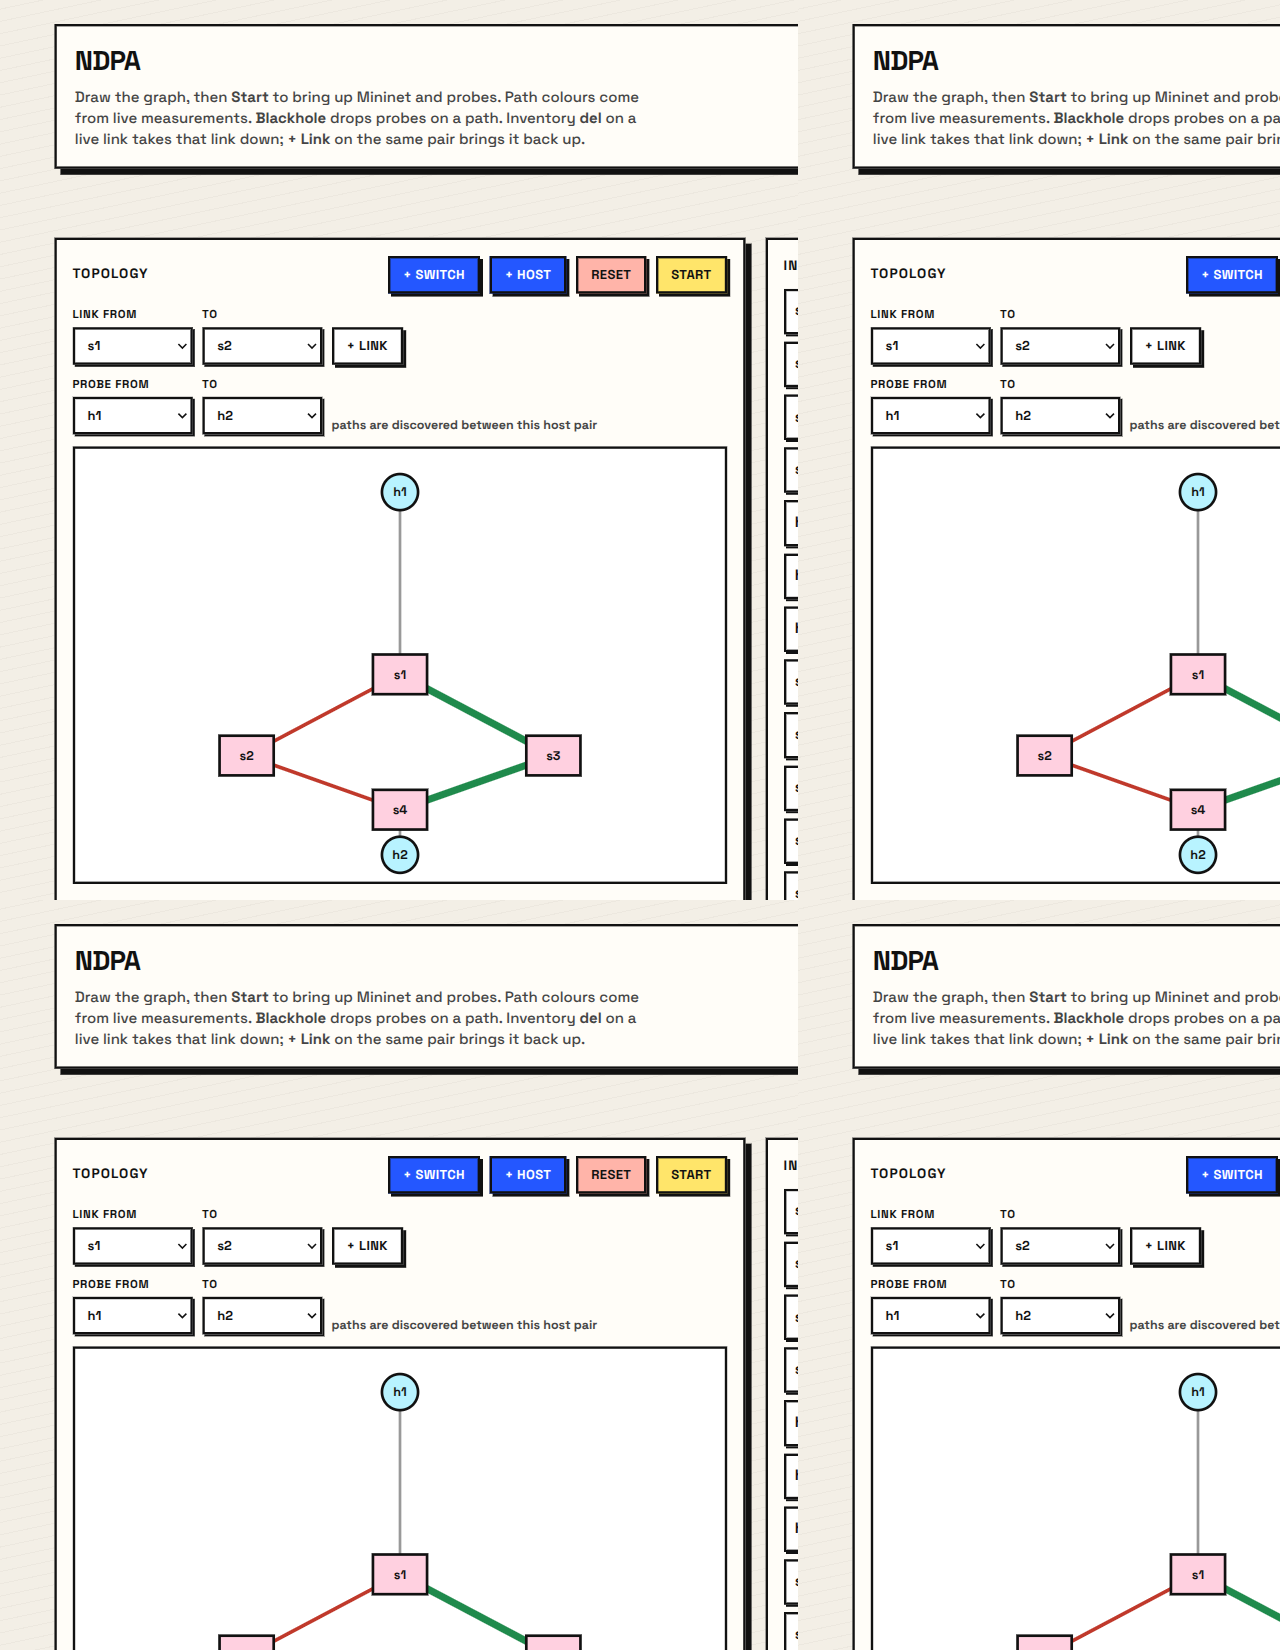
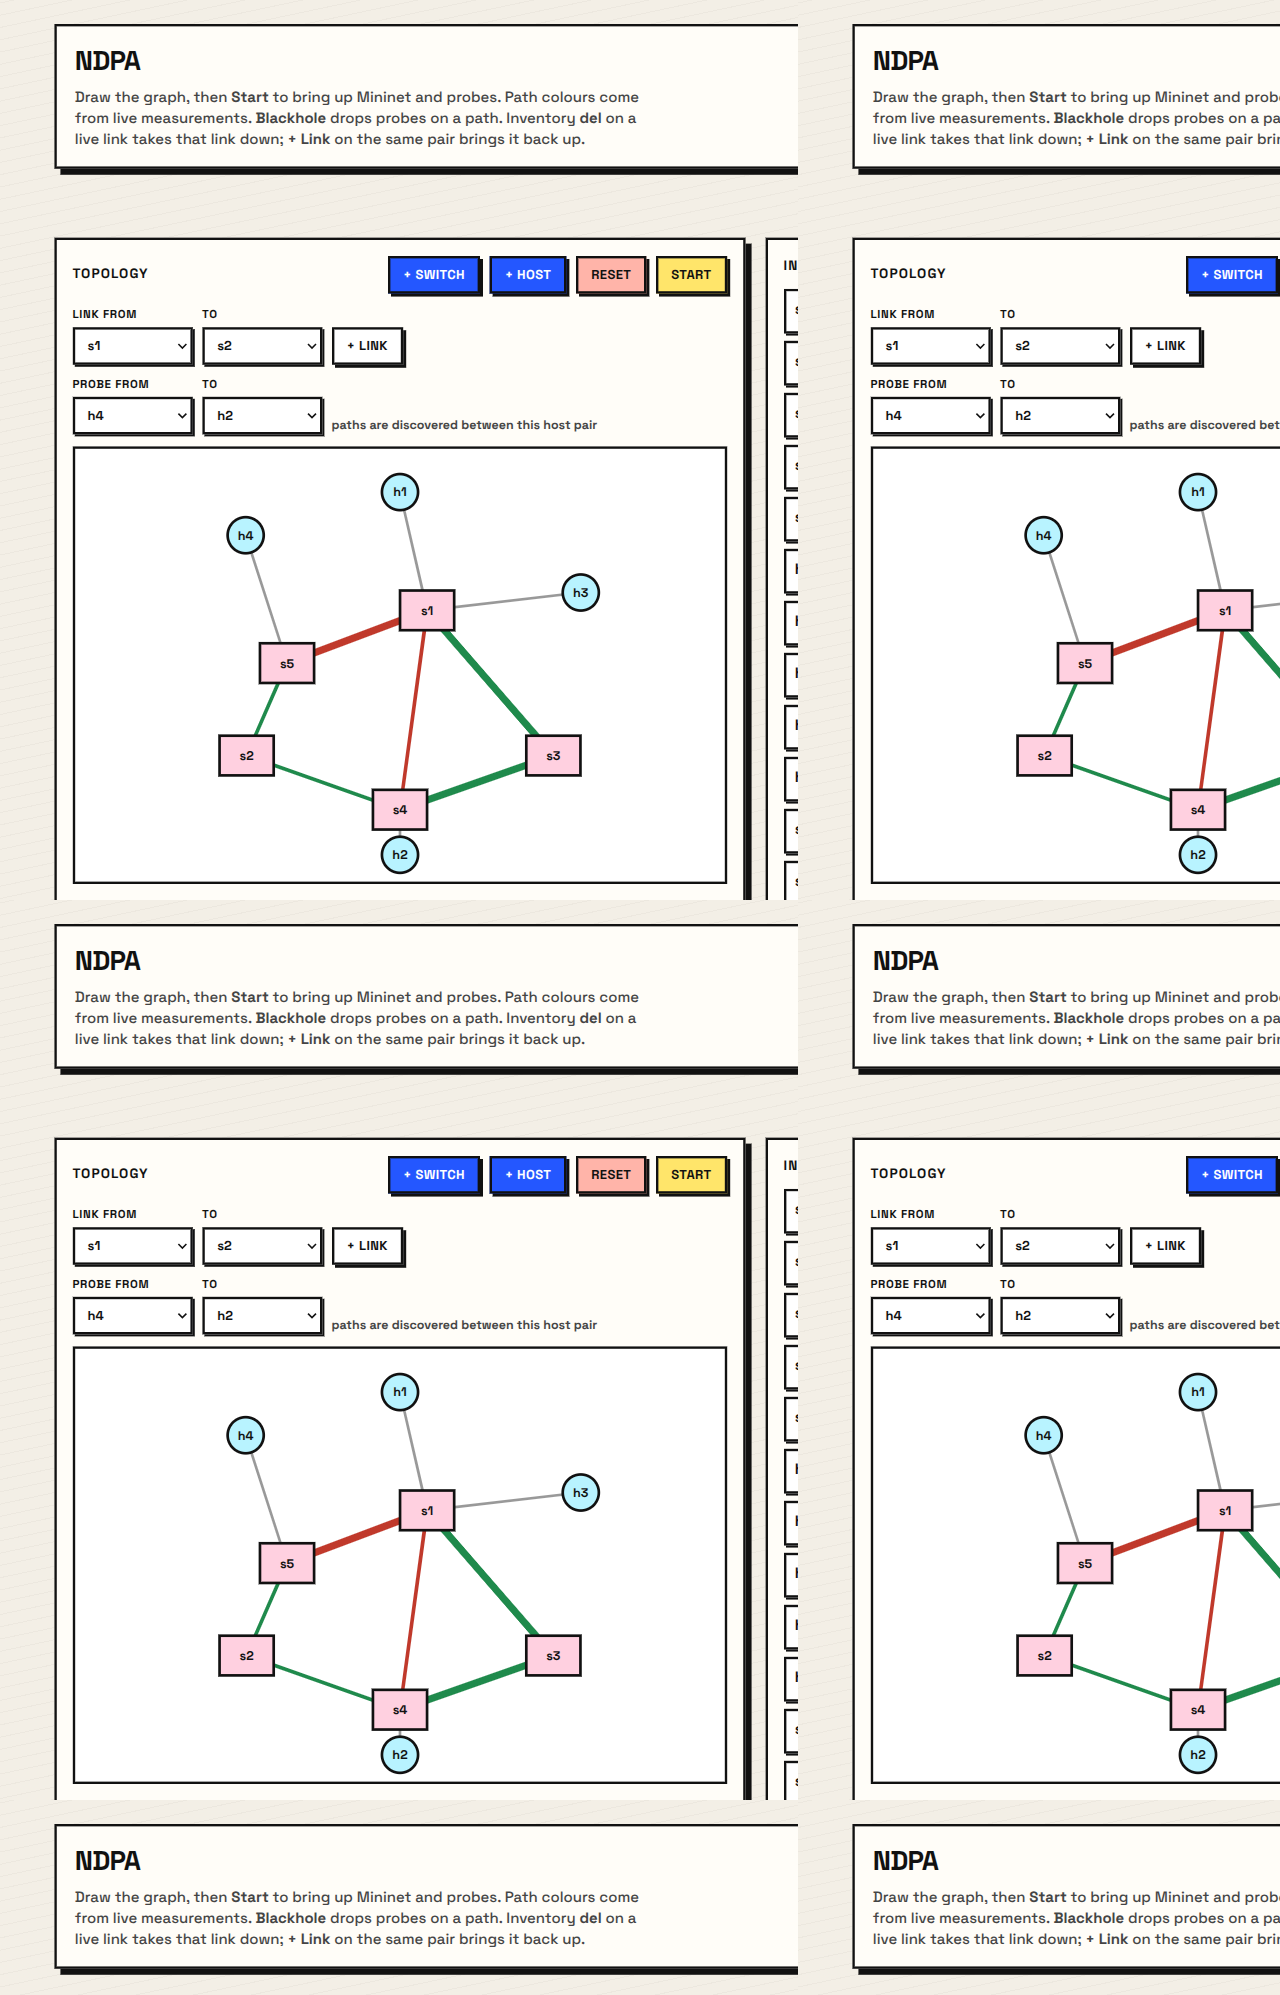
Show the drawn h4→h2 graph in README screenshots, not the default diamond.
Trim the README to any-graph marketing and a subgraph-free architecture chart so GitHub no longer greys overflowing boxes.

Changed region(s): [[0.0312, 0.0, 0.625, 1.0], [0.6562, 0.0, 1.0, 1.0]]

diff --git a/README.md b/README.md
@@ -30,7 +30,7 @@ A socket-based network diagnostic application that measures **delay (RTT)**, **p
 
 ## Features
 
-1. **Topology discovery**: switches, links, and host attachment points (default diamond, or the graph drawn in the dashboard).
+1. **Topology discovery**: switches, links, and host attachment points on the graph you draw.
 2. **Per-path UDP probing**: each discovered route pinned by destination port (`5001`, `5002`, `5004`, …; `5003` is live traffic).
 3. **Telemetry**: RTT (min/avg/max), jitter, and loss over an out-of-band TCP channel.
 4. **Classification**: healthy / degraded / failed with hold-time to avoid flapping.
@@ -42,74 +42,25 @@ A socket-based network diagnostic application that measures **delay (RTT)**, **p
 ## Architecture
 
 ```mermaid
+%%{init: {"theme": "neutral", "flowchart": {"padding": 16, "nodeSpacing": 36, "rankSpacing": 44}}}%%
 flowchart TB
-    D["Dashboard /ndpa/"]
-
-    subgraph CP["Control plane"]
-        R["Ryu: topology, analysis, REST"]
-        A["Root agent"]
-        R -->|"Start / faults"| A
-    end
-
-    subgraph DP["Data plane"]
-        SRC["C++ client"]
-        SW["OVS"]
-        DST["C++ reflector"]
-        SRC --- SW
-        SW --- DST
-        SRC -->|"UDP probes, one port per path"| DST
-    end
-
-    D -->|"GET / POST"| R
-    A -->|"Mininet + probes"| SW
-    SRC -->|"JSON :9100, mgmt veth"| R
-    R -->|"OpenFlow"| SW
-    SW -->|"port status"| R
+    D[Dashboard]
+    R[Ryu]
+    A[Root agent]
+    C[C++ client]
+    S[OVS]
+    F[C++ reflector]
+    D --> R
+    R --> A
+    A --> S
+    C --- S
+    S --- F
+    C -->|UDP| F
+    C -->|:9100| R
+    R -->|OpenFlow| S
 ```
 
-The dashboard default is the diamond below. **Start** saves `topology/topo.json` and brings up that graph. Probe src/dst come from the **Probe from / to** selectors, not a hardcoded host pair.
-
-### Default diamond paths
-
-| Route | Probe port | Role |
-|-------|------------|------|
-| s1 → s2 → s4 | udp/5001 | Candidate path |
-| s1 → s3 → s4 | udp/5002 | Candidate path |
-| extra discovered routes | udp/5004, 5005, … | Up to 8 probe paths |
-| follows the active route | udp/5003 | Live IPv4 / ARP between the probe pair |
-
-Probe ports are assigned shortest-first from a pool of eight UDP ports, skipping `5003` so a third route still gets a probe.
-
-### Control and REST
-
-| Piece | Role |
-|-------|------|
-| Root agent (`./demo/gui.sh`) | One sudo prompt. Dashboard Start and faults talk to this helper |
-| `GET /ndpa/health` | Agent, Mininet, hosts, paths, probe-report checklist |
-| `GET /ndpa/topology` | Switches, links, hosts |
-| `GET /ndpa/paths` | Path table, states, last reports, active path |
-| `GET /ndpa/events` | Recent decisions |
-| `POST /ndpa/run` | Save `topology/topo.json`; enqueue Mininet + C++ probes |
-| `POST /ndpa/fault` | Blackhole, Clear, link down, link up |
-
-### Design decisions
-
-* **Path pinning by UDP port**: forward match `udp_dst`, echo match `udp_src`, so every candidate can be measured at once.
-* **Soft vs hard faults**: **Blackhole** is `tc netem` 100% loss (link stays up; only probes see it). Inventory **del** on a live link takes the interface down (OpenFlow port-down). **+ Link** on the same pair brings it back.
-* **Client reports, controller decides**: analysis stays next to the topology.
-* **Control off the data path**: OpenFlow on loopback. Start adds a dedicated mgmt veth so JSON reports never share the probed links.
-* **No ARP flooding**: static ARP + proactive flows (the topology has a loop).
-
-### Tech stack
-
-| Layer | Pieces |
-|-------|--------|
-| Probes | C++ `telemetry/{client,server,stats,report}.cpp`, `protocol.h` |
-| Controller | Python / Ryu 4.34 (`controller/ndpa_controller.py`, `analysis.py`) |
-| Emulation | Mininet + Open vSwitch (`topology/diamond.py`, `topo.json`) |
-| GUI helper | `demo/gui.sh` + `demo/gui_agent.py` (root) + `demo/gui_demo.py` |
-| UI | Static `frontend/` served by Ryu WSGI |
-| CI | GitHub Actions (lint, C++ build/tests, Mininet integration, D1 demo) |
+Draw any graph in the dashboard (the starting draft is a diamond). **Start** brings that graph up in Mininet. Paths are discovered between the **Probe from / to** hosts. Each discovered route gets its own UDP probe port (`5001`, `5002`, `5004`, …, up to eight; `5003` is live traffic). **Blackhole** drops probes on a path while the link stays up. Inventory **del** takes a live link down.
 
 ---
 
@@ -120,7 +71,7 @@ protocol.h          shared 24-byte probe packet
 telemetry/          C++ client, reflector, stats, Makefile
 controller/         Ryu app + path classifier
 frontend/           live dashboard (HTML/CSS/JS)
-topology/           Mininet diamond topology
+topology/           Mininet graphs (GUI draft or diamond default)
 demo/               gui.sh (dashboard) and d1_demo.sh (headless)
 tests/              unit + integration
 eval/               benchmark hooks
@@ -195,18 +146,18 @@ sudo ./demo/d1_demo.sh --datapath user
 
 ## Screenshots
 
-From a live GUI run against Ryu at `/ndpa/` (real C++ probes + Mininet diamond). Path names are the switch route (`s1-s2-s4`), not letters.
+Live GUI at `/ndpa/` (C++ probes on the graph below, probe h4 → h2).
 
 | # | Capture | What it shows |
 |---|---------|----------------|
-| 1 | Baseline | Both paths healthy; live on s1→s2→s4 |
-| 2 | Soft blackhole | s1→s2→s4 failed (100% loss); live moved to s1→s3→s4 |
-| 3 | Hard failure | Alternate path failed on port-down; PORT / CLASSIFY / REROUTE events |
+| 1 | Baseline | Three paths healthy; live on s5→s1→s4 |
+| 2 | Soft blackhole | s5→s1→s4 failed (100% loss); live moved |
+| 3 | Hard failure | Link down on the live path; PORT / CLASSIFY / REROUTE |
 | 4 | Metrics | RTT min/avg/max, jitter, loss after recovery |
 
 ### Baseline
 
-![Baseline: both paths healthy](docs/screenshots/01-dashboard-baseline.png)
+![Baseline: three paths healthy](docs/screenshots/01-dashboard-baseline.png)
 
 ### Soft blackhole and reroute
 
@@ -219,12 +170,6 @@ From a live GUI run against Ryu at `/ndpa/` (real C++ probes + Mininet diamond).
 ### Paths table metrics
 
 ![Paths table with RTT / jitter / loss](docs/screenshots/04-paths-table-metrics.png)
-
----
-
-## Video demo
-
-A recorded walkthrough is not in the repo yet. Suggested script: start `./demo/gui.sh`, press **Start**, show healthy paths, **Blackhole** one path, show classification and reroute, inventory-**del** a live link, **+ Link** to restore, **Clear** netem, show recovery.
 
 ---
 

diff --git a/docs/screenshots/README.md b/docs/screenshots/README.md
@@ -1,12 +1,12 @@
 # Screenshots
 
-Live captures from `./demo/gui.sh` against a running Ryu NDPA controller (default diamond, probe h1 → h2).
+Live captures from `./demo/gui.sh` (probe h4 → h2 on the drawn graph).
 
 | File | Phase |
 |------|--------|
-| `01-dashboard-baseline.png` | Both paths healthy, live on s1→s2→s4 |
-| `02-blackhole-reroute.png` | s1→s2→s4 blackholed (netem 100% loss), live on s1→s3→s4 |
-| `03-events-reroute.png` | Alternate path link down, PORT / CLASSIFY / REROUTE |
+| `01-dashboard-baseline.png` | Three paths healthy, live on s5→s1→s4 |
+| `02-blackhole-reroute.png` | s5→s1→s4 blackholed, live moved |
+| `03-events-reroute.png` | Live-path link down, PORT / CLASSIFY / REROUTE |
 | `04-paths-table-metrics.png` | After recovery — RTT / jitter / loss |
 
 Embedded in the root [README](../../README.md#screenshots).
